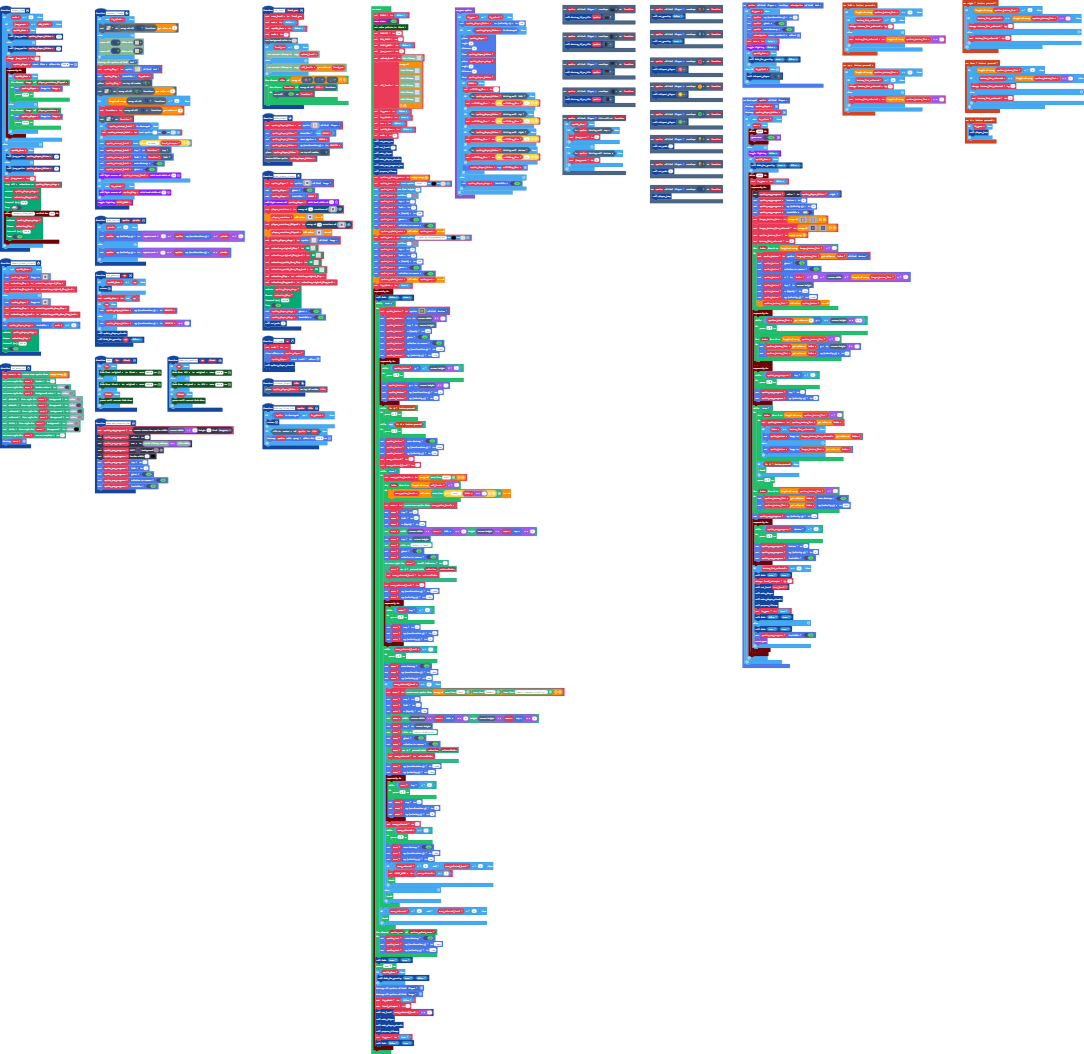
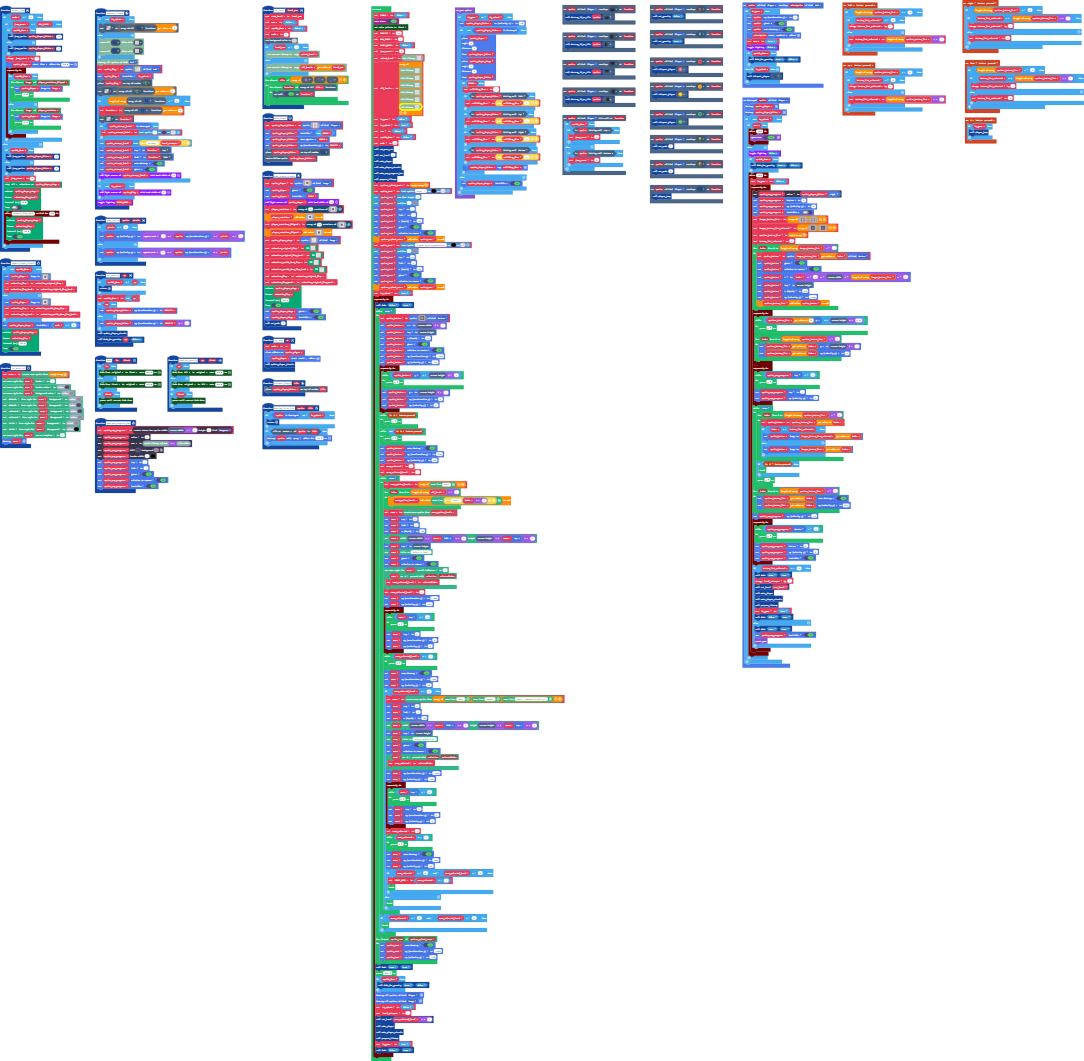
Level 6

Changed region(s): [[0.0, 0.0304, 0.8524, 0.9715], [0.8828, 0.0304, 1.0, 0.1518], [0.7611, 0.0304, 0.8524, 0.1214]]

diff --git a/tilemap.g.ts b/tilemap.g.ts
@@ -328,6 +328,24 @@ namespace myTiles {
 ...............................................................................................................................................................................................................................................................
 ...............................................................................................................................................................................................................................................................
 `, [myTiles.transparency8,myTiles.tile2,myTiles.tile5,myTiles.tile7,myTiles.tile9,myTiles.tile18,myTiles.tile1,myTiles.tile10,myTiles.tile11,myTiles.tile20,myTiles.tile6,myTiles.tile12,myTiles.tile13,myTiles.tile14,myTiles.tile8,myTiles.tile24], TileScale.Eight);
+            case "level_6":
[1 lines of base64/hex data omitted]
+...............................................................................................................................................................................................................................................................
+...............................................................................................................................................................................................................................................................
+...............................................................................................................................................................................................................................................................
+...............................................................................................................................................................................................................................................................
+...............................................................................................................................................................................................................................................................
+...............................................................................................................................................................................................................................................................
+...............................................................................................................................................................................................................................................................
+...............................................................................................................................................................................................................................................................
+...............................................................................................................................................................................................................................................................
+...............................................................................................................................................................................................................................................................
+...............................................................................................................................................................................................................................................................
+...............................................................................................................................................................................................................................................................
+...............................................................................................................................................................................................................................................................
+...............................................................................................................................................................................................................................................................
+...............................................................................................................................................................................................................................................................
+`, [myTiles.transparency8,myTiles.tile1,myTiles.tile2,myTiles.tile4,myTiles.tile5,myTiles.tile7,myTiles.tile8,myTiles.tile9,myTiles.tile10,myTiles.tile11,myTiles.tile12,myTiles.tile13,myTiles.tile14,myTiles.tile15,myTiles.tile16,myTiles.tile17,myTiles.tile19,myTiles.tile18,myTiles.tile20,myTiles.tile24,myTiles.tile6], TileScale.Eight);
         }
         return null;
     })

diff --git a/main.ts b/main.ts
@@ -489,7 +489,8 @@ tiles.createSmallMap(tilemap`level_1`),
 tiles.createSmallMap(tilemap`level_2`),
 tiles.createSmallMap(tilemap`level_3`),
 tiles.createSmallMap(tilemap`level_4`),
-tiles.createSmallMap(tilemap`level_5`)
+tiles.createSmallMap(tilemap`level_5`),
+tiles.createSmallMap(tilemap`level_6`)
 ]
 in_game = false
 in_splash = true
